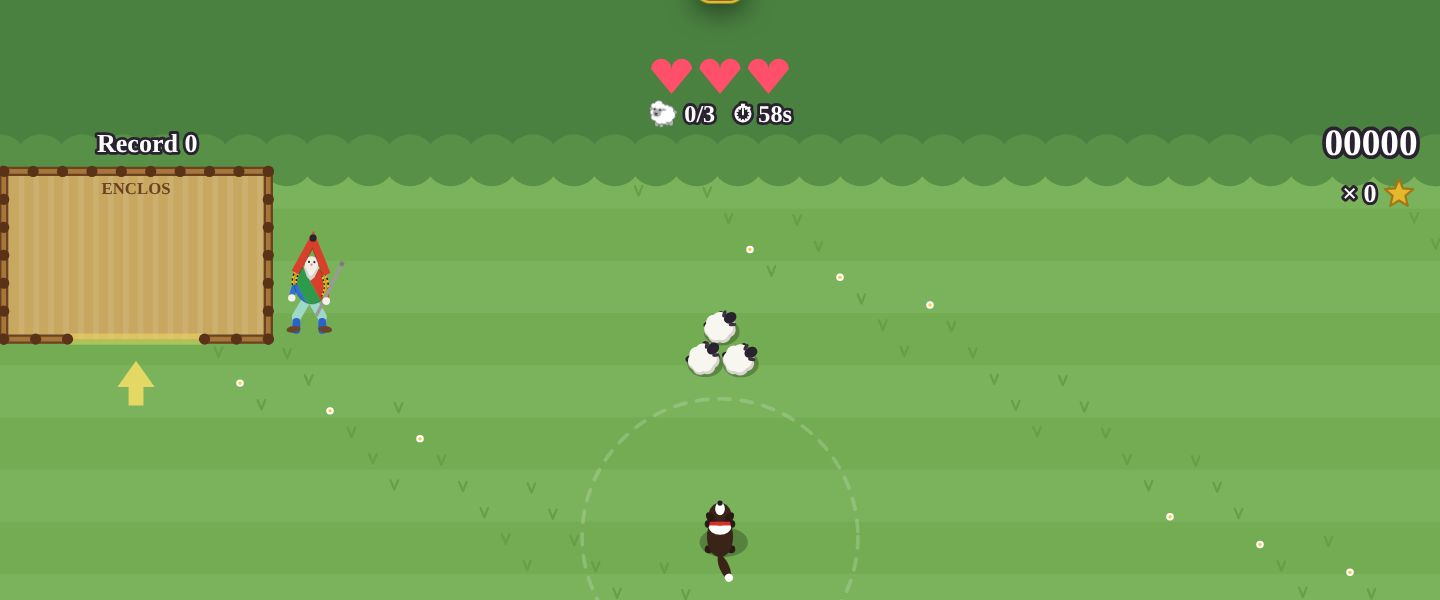
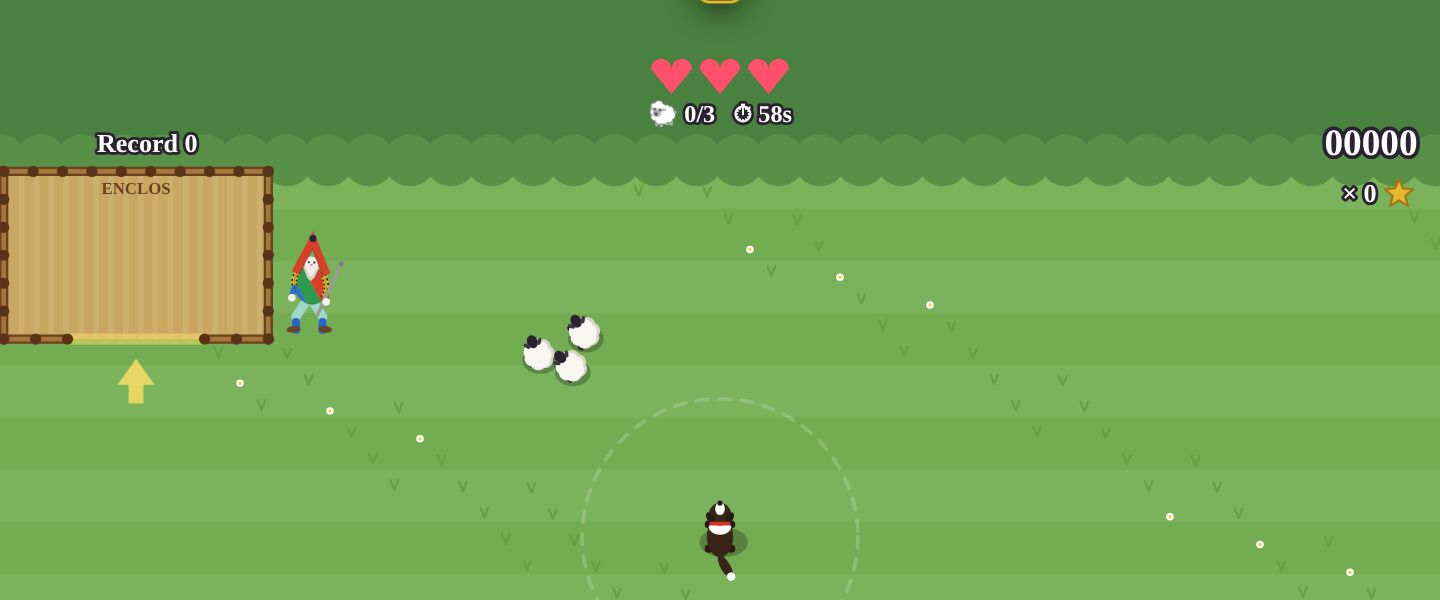
Traite: full-screen piano tiles, speed-based difficulty, own audio path; Berger: gentle river, penning fix
Claude-Session: https://claude.ai/code/session_01VvPzovv9M4HU3UF5ZMQjNa

Changed region(s): [[0.3438, 0.51, 0.4375, 0.66], [0.4688, 0.51, 0.5312, 0.63], [0.5, 0.93, 0.5312, 0.96]]

diff --git a/traite.html b/traite.html
@@ -264,7 +264,7 @@ function voice(f, t0, dur, type, vol, filt) {
 function musicBpm() { return state === 'play' ? 138 + (speed - 5) * 4 : 120 }
 function musicTick() {
   if (!AC || !mus.gain) return;
-  if (state === 'play') { traiteMusic(); return }
+  if (state === 'play') return;
   while (mus.next < AC.currentTime + .15) {
     const spb = 60 / musicBpm(), t0 = M.max(mus.next, AC.currentTime), b = mus.beat, bar = M.floor(b / 3), inBar = b % 3, ch = CHORDS[bar];
     // oom-pah-pah
@@ -719,7 +719,7 @@ const SONG_MEL = ('G4 E4 G4 A4 G4 E4 C4 E4 | G4 G4 A4 G4 E5 D5 C5 - | B4 G4 B4 C
 function chordAt(b) { return CH[SONG_CH[M.floor(b / 4) % 16]] }
 // a reedy, slightly bent "sax" voice
 function sax(f, dur) {
-  if (!AC || !OPTS.sfx) return; const t0 = AC.currentTime, o = AC.createOscillator(), g = AC.createGain(), fl = AC.createBiquadFilter(), lfo = AC.createOscillator(), lg = AC.createGain();
+  if (!AC || !(OPTS.sfx || OPTS.music)) return; const t0 = AC.currentTime, o = AC.createOscillator(), g = AC.createGain(), fl = AC.createBiquadFilter(), lfo = AC.createOscillator(), lg = AC.createGain();
   o.type = 'sawtooth'; o.frequency.setValueAtTime(f * .94, t0); o.frequency.exponentialRampToValueAtTime(f, t0 + .05);
   lfo.frequency.value = 6; lg.gain.value = f * .012; lfo.connect(lg).connect(o.frequency);
   fl.type = 'lowpass'; fl.frequency.value = 1900; fl.Q.value = 3;
@@ -727,14 +727,14 @@ function sax(f, dur) {
   o.connect(fl).connect(g).connect(AC.destination); o.start(t0); lfo.start(t0); o.stop(t0 + dur + .02); lfo.stop(t0 + dur + .02);
 }
 function clk() { return useAC && AC ? AC.currentTime : performance.now() / 1000 }
-function trBpm(beat) { return M.min(168, 112 + 8 * M.floor(M.max(0, beat - 4) / 32)) }
-function trLvl() { return M.min(1, M.max(0, genBeat - 4) / 240) }
-function boardW() { return LAND ? M.min(W * .62, 400) : W - 12 }
+function trBpm(beat) { return M.min(176, 104 + 6 * M.floor(M.max(0, beat - 4) / 16)) }
+function trLvl() { return M.min(1, M.max(0, songT) / 150) }
+function boardW() { return LAND ? M.min(W * .7, 460) : W - 4 }
 function laneW() { return boardW() / NL }
 function laneX(i) { return W / 2 - boardW() / 2 + laneW() * (i + .5) }
-function hitY() { return LAND ? H - 96 : H - 196 }
-function topY() { return LAND ? 64 : 104 }
-function leadT() { return 1.7 - .45 * trLvl() }
+function hitY() { return H - 6 }
+function topY() { return LAND ? 58 : 96 }
+function leadT() { return M.max(.95, 2.2 - 1.25 * trLvl()) } // the tiles scroll faster and faster
 function pxs() { return (hitY() - topY()) / leadT() }
 function laneAt(x) { const l = M.floor((x - (W / 2 - boardW() / 2)) / laneW()); return l >= 0 && l < NL ? l : -1 }
 function pickLane(avoid) { let l, k = 0; do { l = M.floor(M.random() * NL); k++ } while ((l === lastLane || avoid.includes(l) || busy[l] > genT) && k < 20); return l }
@@ -762,44 +762,49 @@ function genChart() {
   }
 }
 // the band follows the chart (called by the music clock)
+let trGain = null;
+function tv(f, t0, dur, type, vol, filt) {
+  const o = AC.createOscillator(), g = AC.createGain(); o.type = type; o.frequency.setValueAtTime(f, t0);
+  g.gain.setValueAtTime(0, t0); g.gain.linearRampToValueAtTime(vol, t0 + .012); g.gain.setValueAtTime(vol, t0 + dur * .7); g.gain.linearRampToValueAtTime(0, t0 + dur);
+  if (filt) { const fl = AC.createBiquadFilter(); fl.type = 'lowpass'; fl.frequency.value = filt; o.connect(fl).connect(g) } else o.connect(g);
+  g.connect(trGain); o.start(t0); o.stop(t0 + dur + .02);
+}
 function traiteMusic() {
+  if (!trGain) { trGain = AC.createGain(); trGain.gain.value = .6; trGain.connect(AC.destination) }
+  trGain.gain.value = (OPTS.music || OPTS.sfx) && !paused ? .6 : 0;
   for (const d of drums) {
     if (d.s || d.t > songT + .15) continue; d.s = true;
     const t0 = M.max(AC.currentTime, songStart + d.t), spb = 60 / trBpm(genBeat);
-    if (d.k === 'kick') { voice(90, t0, .12, 'sine', .5, 0); voice(180, t0, .04, 'square', .08, 1200) }
-    else if (d.k === 'snare') { voice(320, t0, .07, 'square', .07, 2400); voice(190, t0, .06, 'triangle', .1, 0) }
-    else if (d.k === 'hat') voice(6000, t0, .03, 'square', .02, 0);
-    else if (d.k === 'bass') { voice(d.f * 2, t0, spb * .6, 'square', .07, 900); voice(d.f, t0, spb * .7, 'triangle', .25, 0) }
-    else if (d.k === 'stab') for (const f of d.f) voice(f, t0, spb * .3, 'square', .05, 2200);
-    else if (d.k === 'mel') voice(d.f, t0, spb * .42, 'triangle', .07, 0);
-    else if (d.k === 'count') voice(d.n === 1 ? 1046 : 784, t0, .1, 'square', .05, 2000);
+    if (d.k === 'kick') { tv(90, t0, .12, 'sine', .5, 0); tv(180, t0, .04, 'square', .08, 1200) }
+    else if (d.k === 'snare') { tv(320, t0, .07, 'square', .07, 2400); tv(190, t0, .06, 'triangle', .1, 0) }
+    else if (d.k === 'hat') tv(6000, t0, .03, 'square', .02, 0);
+    else if (d.k === 'bass') { tv(d.f * 2, t0, spb * .6, 'square', .07, 900); tv(d.f, t0, spb * .7, 'triangle', .25, 0) }
+    else if (d.k === 'stab') for (const f of d.f) tv(f, t0, spb * .3, 'square', .05, 2200);
+    else if (d.k === 'mel') tv(d.f, t0, spb * .42, 'triangle', .07, 0);
+    else if (d.k === 'count') tv(d.n === 1 ? 1046 : 784, t0, .1, 'square', .05, 2000);
   }
 }
 // the tile plays the tune's note at its place in the song (or a chord note on a rest)
 function playNote(tile, dur) { const n = tile.pair ? null : SONG_MEL[((tile.p % 128) + 128) % 128]; sax(n && n !== '-' ? NOTE(n) : NOTE(chordAt(tile.b)[1 + tile.lane]), M.max(.14, M.min(dur, 1.4))) }
 function mult() { return M.min(4, 1 + M.floor(combo / 10)) }
 function goodHit(tile, perfect) {
-  hits++; combo++; const pts = (perfect ? 30 : 15) * mult() + (tile.gold ? 50 : 0);
+  hits++; combo++; const pts = 20 * mult() + (tile.gold ? 50 : 0);
   starPts += pts; patience = M.min(100, patience + (perfect ? 3 : 1.5));
   if (tile.gold) { stars++; sfx.star(); flash = 4 }
   if (combo > PROF.stats.maxCombo) { PROF.stats.maxCombo = combo; checkUnlocks() }
-  judgeTxt = { s: perfect ? 'Parfait !' : 'Bien', k: perfect ? '#ffe066' : '#9fe0ff', l: 30 };
   buzz(perfect ? 12 : 6); milk++; sprays.push({ lane: tile.lane, l: 12 });
-  for (let i = 0; i < (perfect ? 8 : 4); i++) burstP.push({ x: laneX(tile.lane), y: hitY(), vx: rnd(-2.5, 2.5), vy: rnd(-3.5, -.5), l: 26, k: tile.gold ? '#ffe066' : '#fff' });
-  if (milk >= 30) { milk = 0; buckets++; starPts += 100 * mult(); sfx.full(); popup(W / 2, hitY() + 70 - T, 'Seau plein ! +' + 100 * mult(), '#fff') }
+  for (let i = 0; i < 6; i++) burstP.push({ x: laneX(tile.lane), y: M.min(hitY() - 30, tileY(tile)), vx: rnd(-2.5, 2.5), vy: rnd(-3.5, -.5), l: 26, k: tile.gold ? '#ffe066' : '#fff' });
+  if (milk >= 30) { milk = 0; buckets++; starPts += 100 * mult(); sfx.full(); popup(W / 2, hitY() - 90 - T, 'Seau plein ! +' + 100 * mult(), '#fff') }
 }
+function tileY(n) { return hitY() - (n.t - songT) * pxs() }
 function tapLane(lane, pid) {
   press[lane] = 9;
-  let best = null, bd = 9;
-  for (const n of tiles) if (!n.done && !n.held && n.lane === lane) { const d = M.abs(n.t - songT); if (d < bd) { bd = d; best = n } }
-  if (!best || bd > GOOD) {
-    // a wrong note (only when nothing was coming in that lane)
-    if (!best || bd > .32) { wrongF[lane] = 14; patience -= 5; combo = 0; sfx.wrong(); judgeTxt = { s: 'Fausse note !', k: '#ff8a8a', l: 26 } }
-    return;
-  }
-  const perfect = bd <= PERF;
-  if (best.hold) { best.held = true; best.pid = pid; best.perfect = perfect; holdBy[pid] = best; playNote(best, best.d); goodHit(best, perfect) }
-  else { best.done = true; best.hitT = songT; playNote(best, .16); goodHit(best, perfect) }
+  const pend = tiles.filter(n => !n.done && !n.held && tileY(n) > topY() - 10);
+  const mine = pend.filter(n => n.lane === lane).sort((a, b) => a.t - b.t)[0];
+  const first = pend.reduce((m, n) => M.min(m, n.t), 1e9);
+  if (!mine || mine.t > first + .02) { wrongF[lane] = 14; patience -= 6; combo = 0; sfx.wrong(); buzz(30); judgeTxt = { s: mine ? 'Pas celle-là !' : 'Fausse note !', k: '#ff8a8a', l: 26 }; return }
+  if (mine.hold) { mine.held = true; mine.pid = pid; holdBy[pid] = mine; playNote(mine, mine.d); goodHit(mine, true) }
+  else { mine.done = true; mine.hitT = songT; playNote(mine, .18); goodHit(mine, true) }
 }
 function releasePid(pid) {
   const h = holdBy[pid]; if (!h) return; delete holdBy[pid];
@@ -2513,10 +2518,11 @@ function update() {
     // the song clock (a pause or a hidden tab does not count)
     const c = clk(); if (c - lastClk > .25) songStart += c - lastClk - 1 / 60; lastClk = c; songT = c - songStart;
     genChart();
+    if (AC && useAC) traiteMusic();
     for (const d of drums) if (d.k === 'faster' && !d.f && d.t <= songT) { d.f = true; setAct(act + 1, false); popup(W / 2, topY() + 60 - T, 'Plus vite !', '#ffe066') }
     for (const n of tiles) {
       if (n.held && !n.done) { if (songT >= n.t + n.d) { n.done = true; n.hitT = songT; const bonus = 40 * mult(); starPts += bonus; popup(laneX(n.lane), hitY() - 40 - T, 'Traite complète ! +' + bonus, '#fff'); delete holdBy[n.pid] } else if (playT % 6 === 0) { starPts += 2; sprays.push({ lane: n.lane, l: 8 }) } }
-      else if (!n.done && songT - n.t > MISS) missTile(n);
+      else if (!n.done && songT - n.t > .02) missTile(n);
     }
     tiles = tiles.filter(n => !n.done || songT - (n.hitT ?? n.t) < .35);
     drums = drums.filter(d => d.t > songT - 1);
@@ -2649,9 +2655,9 @@ function render() {
       txt('LES POLICHINELLES', W / 2, 44, 32, COL.yellow);
       txt('La Traite', W / 2, 76, 17, '#fff');
       if (M.floor(t / 30) % 2 === 0) txt('Touche l’écran pour jouer', mx, 136, 17, '#fff');
-      txt('Touche les tuiles quand elles arrivent sur les pis', mx, 166, 13, '#ddd', 'center', false);
-      txt('Tuile longue = garde le doigt appuyé pour traire', mx, 184, 13, '#ddd', 'center', false);
-      txt('Fausse note ou tuile ratée = la vache perd patience !', mx, 214, 13, '#ffe9a0', 'center', false);
+      txt('Touche les tuiles noires dans l’ordre, de bas en haut', mx, 166, 13, '#ddd', 'center', false);
+      txt('Tuile longue = reste appuyé · ça accélère sans arrêt !', mx, 184, 13, '#ddd', 'center', false);
+      txt('Tuile oubliée ou colonne vide = la vache perd patience', mx, 214, 13, '#ffe9a0', 'center', false);
       if (best) txt('Ton record : ' + best, mx, 252, 14, COL.yellow);
       drawBoard(W - 95, 110, 5, true);
     } else {
@@ -2660,9 +2666,9 @@ function render() {
     txt('LES POLICHINELLES', W / 2, ty, W < 330 ? 22 : W < 400 ? 26 : 34, COL.yellow);
     txt('La Traite', W / 2, ty + 32, 18, '#fff');
     if (M.floor(t / 30) % 2 === 0) txt('Touche l’écran pour jouer', W / 2, G + 34, 17, '#fff');
-    txt('Touche les tuiles quand elles arrivent sur les pis', W / 2, G + 62, W < 320 ? 11.5 : 13, '#ddd', 'center', false);
-    txt('Tuile longue = garde le doigt appuyé pour traire', W / 2, G + 80, W < 320 ? 11.5 : 13, '#ddd', 'center', false);
-    if (T > 80) txt('Fausse note ou tuile ratée = la vache perd patience !', W / 2, G + 106, W < 320 ? 11.5 : 13, '#ffe9a0', 'center', false);
+    txt('Touche les tuiles noires dans l’ordre, de bas en haut', W / 2, G + 62, W < 320 ? 11.5 : 13, '#ddd', 'center', false);
+    txt('Tuile longue = reste appuyé · ça accélère sans arrêt !', W / 2, G + 80, W < 320 ? 11.5 : 13, '#ddd', 'center', false);
+    if (T > 80) txt('Tuile oubliée ou colonne vide = la vache perd patience', W / 2, G + 106, W < 320 ? 11.5 : 13, '#ffe9a0', 'center', false);
     if (T > 80) { if (best) txt('Ton record : ' + best, W / 2, G + 134, 14, COL.yellow); (boardStatus === 'ok' && board.length ? txt(`🥇 Meilleur joueur : ${board[0].name} (${board[0].score})`, W / 2, G + 160, 14, '#ffe9a0', 'center', false) : 0) }
     }
   }
@@ -2712,25 +2718,20 @@ function drawBoard() {
   for (let i = 0; i < NL; i++) { if (wrongF[i] > 0) { X.fillStyle = `rgba(255,60,60,${wrongF[i] / 14 * .45})`; X.fillRect(x0 + lw * i, ty - 10, lw, hy - ty + 34) } if (press[i] > 0) { X.fillStyle = `rgba(255,150,190,${press[i] / 9 * .35})`; X.fillRect(x0 + lw * i, hy - 90, lw, 114) } }
   X.fillStyle = 'rgba(42,34,48,.18)'; for (let i = 1; i < NL; i++) X.fillRect(x0 + lw * i - .75, ty - 10, 1.5, hy - ty + 34);
   // the milking line
-  // the zone where you tap: tiles turn pink inside it
-  const k0 = pxs(), zt = hy - GOOD * k0, zb = hy + MISS * k0;
-  X.fillStyle = 'rgba(244,120,150,.16)'; X.fillRect(x0, zt, bw, zb - zt);
-  X.strokeStyle = 'rgba(232,90,130,.8)'; X.lineWidth = 2; X.setLineDash([8, 6]); X.beginPath(); X.moveTo(x0, zt); X.lineTo(x0 + bw, zt); X.stroke(); X.setLineDash([]);
-  X.fillStyle = '#e85a82'; X.fillRect(x0, hy - 2, bw, 4);
-  if (genBeat < 24) txt('TOUCHE ICI ↓', W / 2, zt - 10, 12, '#e85a82', 'center', false);
   // the tiles
-  const k = pxs();
+  const k = pxs(), nextT = tiles.filter(n => !n.done && !n.held).reduce((m, n) => M.min(m, n.t), 1e9);
   for (const n of tiles) {
     const yb = hy - (n.t - songT) * k, h = n.hold ? n.d * k : M.min(k * 60 / trBpm(n.b) * (n.short ? .45 : .88), 120), ytop = yb - h;
-    if (yb < ty - 20 || ytop > hy + 40) continue;
+    if (yb < ty - 20 || ytop > hy + 4) continue;
     const x = x0 + lw * n.lane + 3, w = lw - 6;
     X.save();
     if (n.done && !n.missed) X.globalAlpha = M.max(0, 1 - (songT - n.hitT) / .35);
-    const now = !n.done && !n.held && n.t - songT <= GOOD && songT - n.t <= MISS;
-    let col = n.gold ? '#e6b830' : n.missed ? '#c8303a' : now ? '#e85a82' : '#241c34';
-    if (now) { X.shadowColor = '#ff6a9a'; X.shadowBlur = 16 }
+    // the next tile to tap is outlined in pink
+    const now = !n.done && !n.held && n.t <= nextT + .02;
+    let col = n.gold ? '#e6b830' : n.missed ? '#c8303a' : '#241c34';
     if (n.done && !n.missed && !n.hold) col = '#d8d0e0';
     X.fillStyle = col; X.beginPath(); X.roundRect(x, ytop, w, h, 8); X.fill();
+    if (now) { X.strokeStyle = '#ff6a9a'; X.lineWidth = 4; X.stroke() }
     if (n.hold) {
       // the milk rises in a long tile while you hold it
       const filled = n.held ? M.min(h, (songT - n.t) * k) : 0;
@@ -2749,47 +2750,30 @@ function drawBoard() {
   X.strokeStyle = '#8a5a2a'; X.lineWidth = 4; X.beginPath(); X.roundRect(x0, ty - 10, bw, hy - ty + 34, 14); X.stroke();
 }
 function drawUdder() {
-  const hy = hitY(), x0 = W / 2 - boardW() / 2, bw = boardW(), angry = patience < 35 || cowMood > 0;
-  // belly of the cow and the big pink udder with its four teats
-  X.fillStyle = '#fbf6ea'; X.beginPath(); X.ellipse(W / 2, hy + 30, bw * .62, 22, 0, 0, M.PI); X.fill();
-  X.fillStyle = '#2a2230'; X.beginPath(); X.ellipse(W / 2 + bw * .32, hy + 32, 26, 10, 0, 0, M.PI); X.fill();
-  const ug = X.createLinearGradient(0, hy + 28, 0, hy + 70); ug.addColorStop(0, '#f8b8c4'); ug.addColorStop(1, '#e88a9c');
-  X.fillStyle = ug; X.beginPath(); X.ellipse(W / 2, hy + 34, bw * .46, 34, 0, 0, M.PI); X.fill();
+  const hy = hitY(), x0 = W / 2 - boardW() / 2, bw = boardW();
+  // the pink udder runs along the bottom, one teat under each column
+  const ug = X.createLinearGradient(0, hy - 46, 0, hy); ug.addColorStop(0, 'rgba(248,184,196,0)'); ug.addColorStop(1, 'rgba(248,184,196,.55)'); X.fillStyle = ug; X.fillRect(x0, hy - 46, bw, 46);
   for (let i = 0; i < NL; i++) {
-    const tx = laneX(i), sq = press[i] > 0 ? press[i] / 9 : 0, len = 34 - sq * 8, wd = M.min(22, laneW() * .3);
-    X.fillStyle = '#e8899c'; X.beginPath(); X.roundRect(tx - wd / 2 + sq * 2, hy + 46, wd - sq * 4, len, wd / 2); X.fill();
-    X.fillStyle = 'rgba(255,255,255,.35)'; X.fillRect(tx - wd / 2 + 4, hy + 52, 3, len - 14);
+    const tx = laneX(i), sq = press[i] > 0 ? press[i] / 9 : 0, len = 26 - sq * 8, wd = M.min(20, laneW() * .26);
+    X.fillStyle = '#e8899c'; X.beginPath(); X.roundRect(tx - wd / 2 + sq * 2, hy - len - 2, wd - sq * 4, len + 6, wd / 2); X.fill();
+    X.fillStyle = 'rgba(255,255,255,.4)'; X.fillRect(tx - wd / 2 + 4, hy - len + 2, 3, len - 8);
   }
-  // milk streams into the trough
-  const ty = hy + (LAND ? 84 : 120);
-  for (const s of sprays) { const x = laneX(s.lane); X.save(); X.globalAlpha = s.l / 12; line('#fbfbf4', 5, [x, hy + 80, x, ty - 4]); X.restore() }
-  X.fillStyle = '#8a5a2a'; X.beginPath(); X.moveTo(x0 - 6, ty - 4); X.lineTo(x0 + bw + 6, ty - 4); X.lineTo(x0 + bw - 6, ty + 16); X.lineTo(x0 + 6, ty + 16); X.closePath(); X.fill();
-  X.fillStyle = '#fbfbf4'; X.fillRect(x0, ty - 2, bw * (milk / 30), 5); X.fillStyle = '#6a4220'; X.fillRect(x0 - 6, ty - 6, bw + 12, 4);
-  if (buckets) txt(`🪣 ×${buckets}`, x0 + bw - 30, ty + 26, 12, '#fff');
-  // the cow's head peeks in on the left of the udder
-  const hx = x0 + (LAND ? -44 : 26), hyy = hy + (LAND ? 40 : 92), chew = M.sin(t * .15) * 1.5;
-  X.save(); X.translate(hx, hyy); X.scale(.8, .8);
-  X.fillStyle = '#f8f4ec'; X.beginPath(); X.ellipse(0, 0, 30, 26, -.2, 0, 6.29); X.fill();
-  X.fillStyle = '#2a2230'; X.beginPath(); X.ellipse(10, -12, 12, 9, .3, 0, 6.29); X.fill();
-  X.fillStyle = '#f4b0bc'; X.beginPath(); X.ellipse(-14, 12 + chew * .3, 18, 12, -.2, 0, 6.29); X.fill(); circ('#c86a7a', -20, 10, 2.4); circ('#c86a7a', -9, 9, 2.4);
-  poly('#e8dcc0', [4, -22, 14, -40, 14, -22]); poly('#e8dcc0', [-16, -20, -26, -36, -8, -24]);
-  for (const ex of [-12, 6]) { circ('#fff', ex, -4, 5); circ(angry ? '#d8302a' : '#1d1d24', ex - 1, -3, 2.6) }
-  if (angry) { line('#1d1d24', 2, [-18, -12, -7, -9]); line('#1d1d24', 2, [12, -12, 1, -9]); X.save(); X.globalAlpha = .6; for (const sx of [-22, -6]) circ('#fff', sx, 24 - (t * .8 % 20), 3 + (t * .2 % 4)); X.restore() }
-  X.restore();
+  for (const s of sprays) { const x = laneX(s.lane); X.save(); X.globalAlpha = s.l / 12; for (let k = 0; k < 3; k++) circ('#fbfbf4', x + rnd(-6, 6), hy - 30 - k * 12 - (12 - s.l) * 3, 3); X.restore() }
 }
 function drawGame() {
   X.save(); X.translate(0, -T);
   drawBoard(); drawUdder();
+  if (combo >= 3) { X.save(); X.globalAlpha = .55; txt(String(combo), W / 2, topY() + 70, 46, '#e85a82'); X.restore() }
   for (const p of burstP) { X.save(); X.globalAlpha = p.l / 26; circ(p.k, p.x, p.y, 2.6); X.restore() }
   const hy = hitY();
   if (judgeTxt) { X.save(); X.globalAlpha = M.min(1, judgeTxt.l / 12); txt(judgeTxt.s, W / 2, hy - 110 - (30 - judgeTxt.l), 22, judgeTxt.k); X.restore() }
-  if (genBeat < 9) { const b = M.floor(songT / (60 / trBpm(0))); if (b >= 0 && b < 4) txt(String(4 - b), W / 2, (topY() + hy) / 2, 44, COL.yellow); else if (b === 4) txt('Traite !', W / 2, (topY() + hy) / 2, 34, COL.yellow) }
-  if (kickT) { X.save(); X.globalAlpha = M.min(.6, kickT / 30); X.fillStyle = '#fbfbf4'; X.beginPath(); X.ellipse(W / 2, hy + 120, 120, 14, 0, 0, 6.29); X.fill(); X.restore() }
+  if (genBeat < 9) { const b = M.floor(songT / (60 / trBpm(0))); if (b >= 0 && b < 4) txt(String(4 - b), W / 2, (topY() + hy) / 2, 44, COL.yellow); else if (b === 4) txt('Traite !', W / 2, (topY() + hy) / 2, 34, COL.yellow); if (b < 5) txt('Touche les tuiles noires, de bas en haut', W / 2, (topY() + hy) / 2 + 40, 13, '#2a2230', 'center', false) }
+  if (kickT) { X.save(); X.globalAlpha = M.min(.7, kickT / 30); X.fillStyle = '#fbfbf4'; X.beginPath(); X.ellipse(W / 2, hy - 20, 140, 30, 0, 0, 6.29); X.fill(); X.restore() }
   X.restore();
 }
 function drawHud() {
   X.save(); X.translate(0, -T);
-  const ty = LAND ? 40 : topY() - 26, bw = M.min(130, W * .4), bx = W / 2 - bw / 2;
+  const ty = LAND ? 40 : topY() - 20, bw = M.min(130, W * .4), bx = W / 2 - bw / 2;
   txt('🐄', bx - 14, ty + 1, 16, '#fff');
   X.fillStyle = 'rgba(20,16,40,.6)'; X.beginPath(); X.roundRect(bx, ty - 6, bw, 12, 6); X.fill();
   const low = patience < 35; X.fillStyle = low ? (M.floor(t / 10) % 2 ? '#ff4f4f' : '#ffb060') : '#7dff8a'; X.beginPath(); X.roundRect(bx, ty - 6, M.max(4, bw * M.max(0, patience) / 100), 12, 6); X.fill();

diff --git a/berger.html b/berger.html
@@ -716,7 +716,7 @@ function newLevel() {
   // the pen sits in a top corner, its gate facing the field
   const left = lvl % 2 === 1, px = left ? 2 : W - 2 - pw; // flush with the edges: no gap where a sheep could get stuck
   PEN = { x: px, y: top, w: pw, h: ph, gate, gx: px + pw / 2 };
-  RIVER = lvl >= 5 ? { y: top + (bot - top) * .5, h: 26, bx: W * (.25 + M.random() * .5), bw: M.max(34, 58 - lvl * 2) } : null;
+  RIVER = lvl >= 5 ? { y: top + (bot - top) * .5, h: 24, bx: M.max(60, M.min(W - 60, (PEN.gx + W / 2) / 2 + rnd(-30, 30))), bw: M.max(80, 110 - (lvl - 5) * 4) } : null;
   const nb = lvl >= 3 ? M.min(5, lvl - 2) : 0;
   for (let i = 0; i < nb; i++) for (let k = 0; k < 20; k++) { const b = { x: rnd(30, W - 30), y: rnd(top + ph + 40, bot - 30), r: rnd(12, 18) }; if (RIVER && M.abs(b.y - RIVER.y) < 40) continue; if (bushes.some(o => M.hypot(o.x - b.x, o.y - b.y) < 50)) continue; bushes.push(b); break }
   // the flock starts at the bottom, a lamb and sometimes a golden sheep
@@ -726,7 +726,7 @@ function newLevel() {
   penTotal = n; timeLeft = (45 + n * 5 + (RIVER ? 12 : 0)) * 60;
   DOG = { x: W / 2, y: bot - 24, vx: 0, vy: 0, a: -M.PI / 2, wag: 0 }; tgt = null;
   wolfT = lvl >= 7 ? 420 : 1e9;
-  setAct(lvl - 1, false);
+  setAct(lvl - 1, false); actBanner = 0; // our own "Niveau N" title instead of the act banner
 }
 function inPen(s) { const P = PEN; return s.x > P.x + 4 && s.x < P.x + P.w - 4 && s.y > P.y + 4 && s.y < P.y + P.h - 4 }
 // pen walls: three sides and the bottom with a gap for the gate
@@ -2469,12 +2469,13 @@ function update() {
       if (dd >= flee) { if (M.random() < .02) s.dir += rnd(-1.5, 1.5); ax += M.cos(s.dir) * .02; ay += M.sin(s.dir) * .02 }
       s.vx = (s.vx + ax) * .9; s.vy = (s.vy + ay) * .9; const sp = M.hypot(s.vx, s.vy), mx = s.lamb ? 2 : 1.7; if (sp > mx) { s.vx *= mx / sp; s.vy *= mx / sp }
       s.x += s.vx; s.y += s.vy; pushOut(s, s.r);
-      if (RIVER && M.abs(s.y - RIVER.y) < RIVER.h / 2 + 12 && M.abs(s.x - RIVER.bx) > RIVER.bw / 2 - 4) { s.vy += (s.y < RIVER.y ? -1 : 1) * .12 }
-      if (inWater(s)) { // swept away: it climbs out further down the field
-        for (let i = 0; i < 8; i++) fx.push({ x: s.x, y: s.y, vx: rnd(-2, 2), vy: rnd(-2, 2), l: 40, k: '#9fd8f4' });
-        popup(s.x, s.y - 16 - T, 'Plouf ! -20', '#9fd8f4'); starPts = M.max(0, starPts - 20); combo = 0; sfx.baa();
-        s.x = rnd(30, W - 30); s.y = fBot() - 14; s.vx = 0; s.vy = 0 }
-      else if (inPen(s) && s.y < PEN.y + PEN.h - 10) {
+      // the river: sheep never fall in, they walk along the bank to the bridge
+      if (RIVER && M.abs(s.x - RIVER.bx) > RIVER.bw / 2 - s.r) {
+        const bank = RIVER.h / 2 + s.r + 2, dy = s.y - RIVER.y;
+        if (M.abs(dy) < bank) { s.y = RIVER.y + M.sign(dy || 1) * bank; s.vy = 0 }
+        if (M.abs(dy) < bank + 30) s.vx += M.sign(RIVER.bx - s.x) * .07;
+      }
+      if (inPen(s) && s.y < PEN.y + PEN.h - 10) {
         s.penned = true; combo++; const mult = M.min(4, 1 + M.floor(combo / 4)), pts = (s.gold ? 100 : s.lamb ? 80 : 50) * mult;
         starPts += pts; if (s.gold) { stars++; sfx.star(); flash = 4 } else sfx.penned(); buzz(10);
         popup(s.x, s.y - 16 - T, `+${pts}${mult > 1 ? ' ×' + mult : ''}`, s.gold ? '#ffe066' : '#fff');

diff --git a/sw.js b/sw.js
@@ -1,6 +1,6 @@
 // Les Polichinelles - service worker
 // Network first (players always get the latest version when online), cache as a fallback (works offline).
-const CACHE = 'polichinelles-v71';
+const CACHE = 'polichinelles-v72';
 const CORE = ['./', 'index.html', 'course.html', 'envol.html', 'tape.html', 'pyramide.html', 'jongleur.html', 'trampo.html', 'tir.html', 'tracteur.html', 'oeufs.html', 'shots/tracteur.jpg', 'shots/oeufs.jpg', 'loge.html', 'avatar.html', 'pass.html', 'pass.js', 'roue.html', 'defis.html', 'briques.html', 'farandole.html', 'traversee.html', 'shots/briques.jpg', 'shots/farandole.jpg', 'shots/traversee.jpg', 'shots/course.jpg', 'shots/legend1.png', 'shots/legend2.png', 'shots/envol.jpg', 'shots/trampo.jpg', 'shots/tir.jpg', 'shots/tape.jpg', 'shots/pyramide.jpg', 'shots/jongleur.jpg', 'kart.html', 'three.module.min.js', 'manifest.webmanifest', 'icon-192.png', 'icon-512.png', 'icon-180.png'];
 
 self.addEventListener('install', e => {
